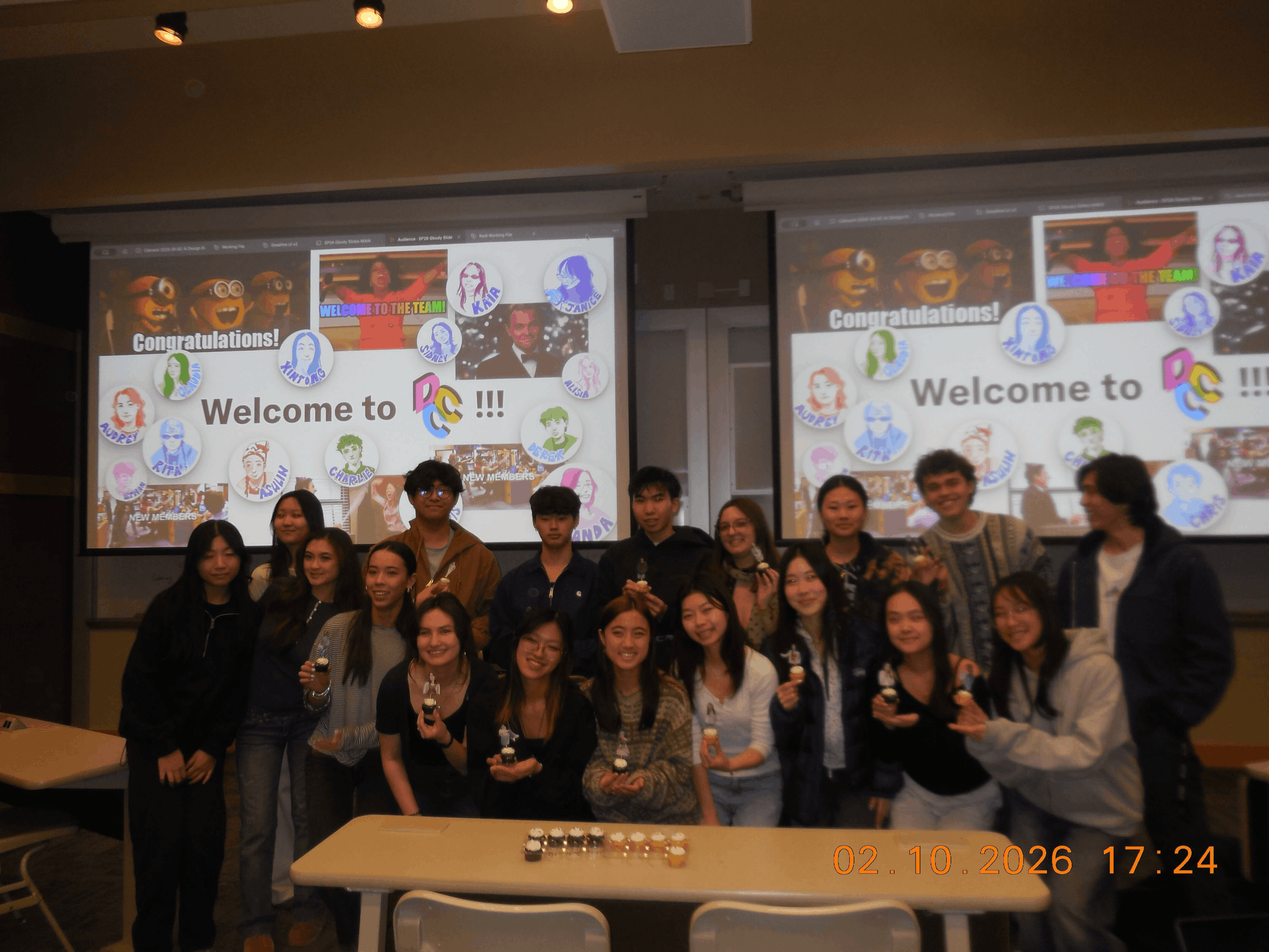
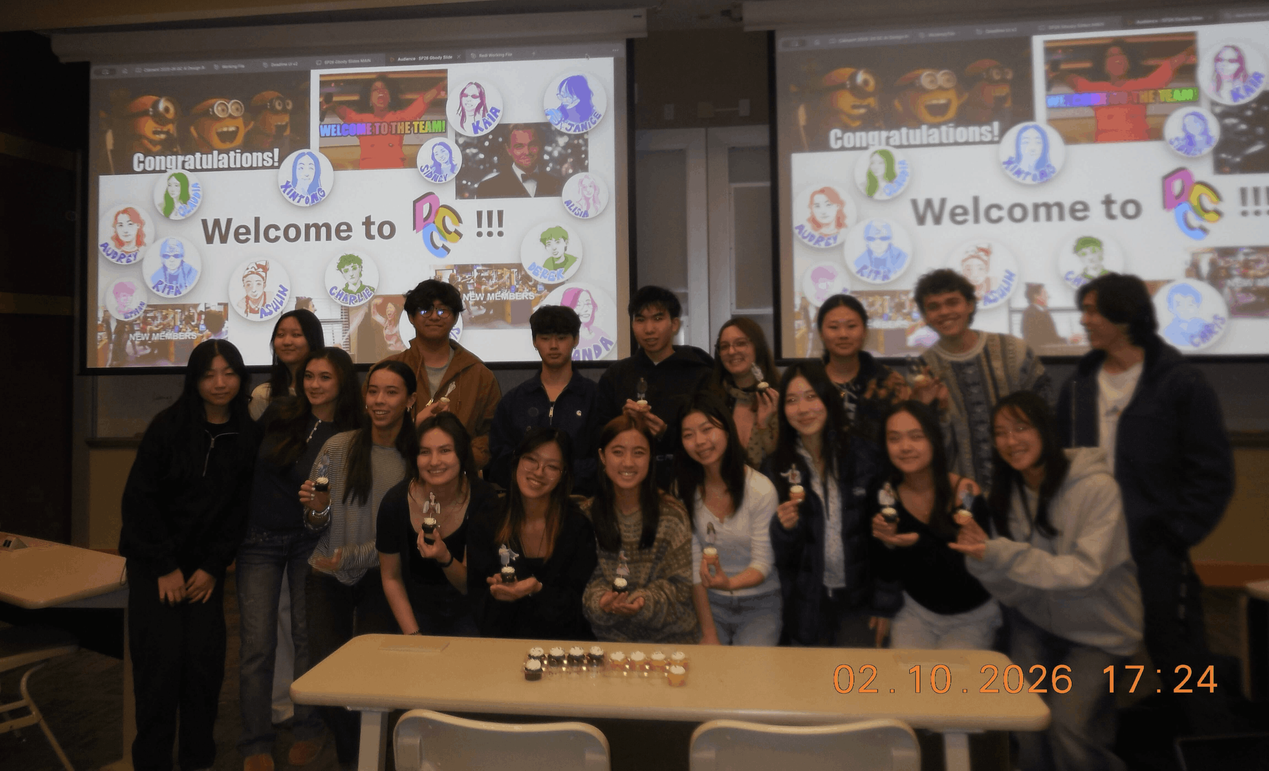
poalish

diff --git a/src/data/about.tsx b/src/data/about.tsx
@@ -210,21 +210,34 @@ export function getBioSections(onOpenDesignClubs: () => void): BioSection[] {
       heading: "How did I get here?",
       layout: "stack",
       images: [
-        { src: "/images/bio/html.png", alt: "My first HTML website" },
         { src: "/images/bio/python.png", alt: "My first Python program" },
+        { src: "/images/bio/html.png", alt: "My first HTML website" },
       ],
       content: (
         <>
           <p>
             My journey started in 7th grade, when we were learning Python as part of a CS class. I always found it
             fascinating how typing a few commands would lead to outputs on the black terminal screen. The following
-            year, we did a module on HTML/CSS/JS and I found this to be even more of an upgrade! Instead of just white
-            text on the black terminal screen, you could see shapes, colors, images, and more! I found this so fun that
-            I went deeper into all this web design part, which I soon learnt was essentially the UI/UX design field.
+            year, we did a module on HTML/CSS/JS and that felt like an even bigger leap! Instead of just white text on
+            the black terminal screen, you could create shapes, colors, images, and more! I enjoyed it so much that I
+            started exploring web design more deeply, which eventually led me to discover the world of UI/UX design.
           </p>
           <p>
-            Since then, design has been my main thing, but I've always kept the technical side close. Being able to
-            actually build what I design is a superpower that unlocks so much.
+            Since then, design has been my main focus, but I've always kept the technical side close. Being able to
+            actually build what I design feels like a superpower that closes the gap between an idea and a finished
+            product.
+          </p>
+          <p>
+            That mindset led me to my first professional experience: interning at Replit at 15 years old. While I was
+            their youngest Design Intern, the title of youngest intern overall had already been claimed by a developer
+            who joined at 13. I spent three years at Replit, working during the summers and part-time throughout high
+            school, and those years shaped me immensely. They deepened my technical knowledge and I consider many of my
+            design opinions to have been formed there.
+          </p>
+          <p>
+            I still remember the first time I shipped code to production. It was a one-line change: adding an icon to a
+            button component. Tiny in scope, but incredibly meaningful to me. Seeing something I had contributed become
+            part of a real product—and being able to point to that specific change—was just so rewarding!
           </p>
         </>
       ),
@@ -241,19 +254,18 @@ export function getBioSections(onOpenDesignClubs: () => void): BioSection[] {
       content: (
         <>
           <p>
-            I'm most at home in the visual and systematic side of things: high-fidelity mockups, design systems, and
-            accessibility. Getting the details right — color tokens, type scales, interaction states — is genuinely so
-            satisfying to me!
+            I've always been drawn to the visual and systemic side of things. I love making interfaces that feel
+            polished and intentional, but I also enjoy the underlying structure that makes them consistent and scalable.
           </p>
           <p>
-            And being to build what I design makes all of this click even better together. The gap between a Figma frame
-            and a shipped product is where design intent sometimes dies, so I try to close that gap myself as often as
-            possible.
+            I'm most at home with things like high-fidelity mockups, design systems, and accessibility. Getting the
+            details right (eg: color tokens, type scales, spacing systems, interaction states) is genuinely satisfying
+            to me because those small decisions compound. Most users won't consciously notice them, but together they're
+            what make an interface feel intuitive and polished.
           </p>
           <p>
-            I also love the orchestration side: pulling together user needs, design constraints, engineering resources,
-            and edge cases into something coherent. Having spent years as both the designer handing off and the
-            developer receiving that handoff, I've learned exactly where things go wrong.rem
+            Recently, I've also gained an interest in the orchestration side: pulling together user and business needs,
+            design constraints, engineering resources, and edge cases into something coherent.
           </p>
         </>
       ),
@@ -304,18 +316,25 @@ export function getBioSections(onOpenDesignClubs: () => void): BioSection[] {
           <p>A few of my strong convictions, loosely held:</p>
           <ul>
             <li>The Poppins font is an abomination</li>
-            <li>Designers should code — and ship to production at least once</li>
+            <li>Helvetica is king</li>
+            <li>Designers should code and ship to production (at least once)</li>
             <li>Keyboard shortcuts are the ultimate productivity hack</li>
-            <li>Every app needs a "Remind me in X hours" button</li>
+            <li>
+              Every app needs a "Remind me in X hours" button (like the{" "}
+              <a href="https://slack.com/help/articles/208423427-Set-a-reminder" target="_blank">
+                Slack feature
+              </a>
+              )
+            </li>
             <li>School should teach how to type fast</li>
             <li>Your personal site is your hardest client</li>
-            <li>High agency is the most underrated work attribute — do what you say you'll do, and do it well</li>
+            <li>High agency is the most underrated work attribute; do what you say you'll do, and do it well</li>
             <li>Honest feedback is a gift, but most people are too scared to give it</li>
             <li>Less border radius is better</li>
             <li>Naming things in a design system is 40% of the work</li>
-            <li>People should respond faster to emails, texts or messages</li>
-            <li>You should switch browsers every couple of months just to explore</li>
-            <li>Don't trust a bulleted list of hot takes</li>
+            <li>People should respond to messages faster</li>
+            <li>You should switch browsers every couple of months because variety is the spice of life</li>
+            <li>Most importantly: never trust a bulleted list of hot takes!</li>
           </ul>
         </>
       ),

diff --git a/src/data/data.ts b/src/data/data.ts
@@ -78,7 +78,7 @@ export const internships: Entity[] = [
   {
     slug: "replit",
     name: "Replit",
-    date: "2022 – 24",
+    date: "2022 - 24",
     role: "Internship",
     accent: "#ff3d00",
     href: "/work/replit",
@@ -90,7 +90,7 @@ export const freelance: Entity[] = [
   {
     slug: "gcai",
     name: "General Counsel AI",
-    date: "2024 – 26",
+    date: "2024 - 26",
     role: "Freelancing",
     aboutRole: "Designer & Developer",
     accent: "#003047",
@@ -197,28 +197,20 @@ export const activities: Entity[] = [
   },
 ];
 
-const entities: Entity[] = [
-  ...internships,
-  ...freelance,
-  ...collaborations,
-  ...activities,
-];
+const entities: Entity[] = [...internships, ...freelance, ...collaborations, ...activities];
 
 export default entities;
 
 const entityIndex = new Map(entities.map((e) => [e.slug, e]));
 
 /** Look up an entity by slug. */
-export const bySlug = (slug: string): Entity | undefined =>
-  entityIndex.get(slug);
+export const bySlug = (slug: string): Entity | undefined => entityIndex.get(slug);
 
 /** The role label to show on the About accordion (override falls back to role). */
 export const aboutRole = (e: Entity): string => e.aboutRole ?? e.role;
 
 /** The dark-mode link/dot color for an entity (About). Falls back to its accent. */
-export const darkAccent = (e: Entity): string =>
-  e.textAccentColor?.dark ?? e.accent;
+export const darkAccent = (e: Entity): string => e.textAccentColor?.dark ?? e.accent;
 
 /** The light-mode link color for an entity (case study page). Falls back to its accent. */
-export const lightAccent = (e: Entity): string =>
-  e.textAccentColor?.light ?? e.accent;
+export const lightAccent = (e: Entity): string => e.textAccentColor?.light ?? e.accent;

diff --git a/src/styles.css b/src/styles.css
@@ -269,7 +269,7 @@ footer::selection {
   bottom: 6px;
   width: 4px;
   height: 4px;
-  border-radius: 50%;
+  border-radius: 0;
   background: currentColor;
   transform: translateX(-50%) translateY(8px) scale(0);
   opacity: 0;
